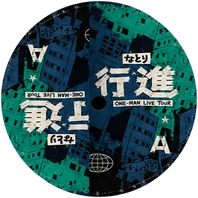
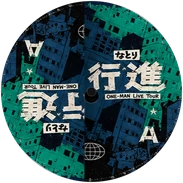
なとり LP: straighten the record into a true circle (it was rebuilt from a squashed ellipse) and centre the label's spindle hole
Claude-Session: https://claude.ai/code/session_011AKGq2Eia571tSktigFpDZ

diff --git a/js/lp-player.js b/js/lp-player.js
@@ -60,11 +60,11 @@
             // its own singer (faces left, so the notes drift left); mouth box in % of the picture
             buddy: { icon: 'icon.webp', singer: 'singer.webp', mouth: 'mouth.webp', size: [380, 318],
                      mouthBox: [39.47, 53.75, 6.88, 9.2], notes: [-4, 16, 44, 14], noteDir: -1, boltAt: [42.7, 58.7] } },
-    // the same idea for natori; the photo sees the record a little from the side, so the label is an ellipse (sx)
-    march: { kind: 'cd', dir: 'natori/', w: 334, h: 250, stageW: 156, shift: -24, under: 'vinyl.webp',
-             discs: [{ img: 'label.webp', cx: 243.68, cy: 124.59, size: 99.07, sx: 0.8687 }],
-             toggle: [35.64, 49.97], still: 'still.webp', art: 'artwork-512.jpg', turn: 5, bars: 'redteal',
-             arm: { ref: 167, vb: [222, 125], pivot: [206, 2], scale: 1, disc: [121.84, 62.3], sx: 0.8687, r: [54, 28] },
+    // the same idea for natori (the photo's record, seen a little from the side, straightened into a true circle)
+    march: { kind: 'cd', dir: 'natori/', w: 334, h: 231, stageW: 156, shift: -22, under: 'vinyl.webp',
+             discs: [{ img: 'label.webp', cx: 225.13, cy: 114.65, size: 91.53 }],
+             toggle: [32.92, 49.97], still: 'still.webp', art: 'artwork-512.jpg', turn: 5, bars: 'redteal',
+             arm: { ref: 167, vb: [218, 115.5], pivot: [203, 0], scale: 1, disc: [112.57, 57.32], r: [52, 27] },
              buddy: { icon: 'icon.webp', singer: 'singer.webp', mouth: 'mouth.webp', size: [360, 399],
                       mouthBox: [38.15, 56.52, 4.82, 3.99], notes: [52, 22, 26, 14], noteDir: 1, boltAt: [40.6, 57.8], fadeLow: true } }
   };
